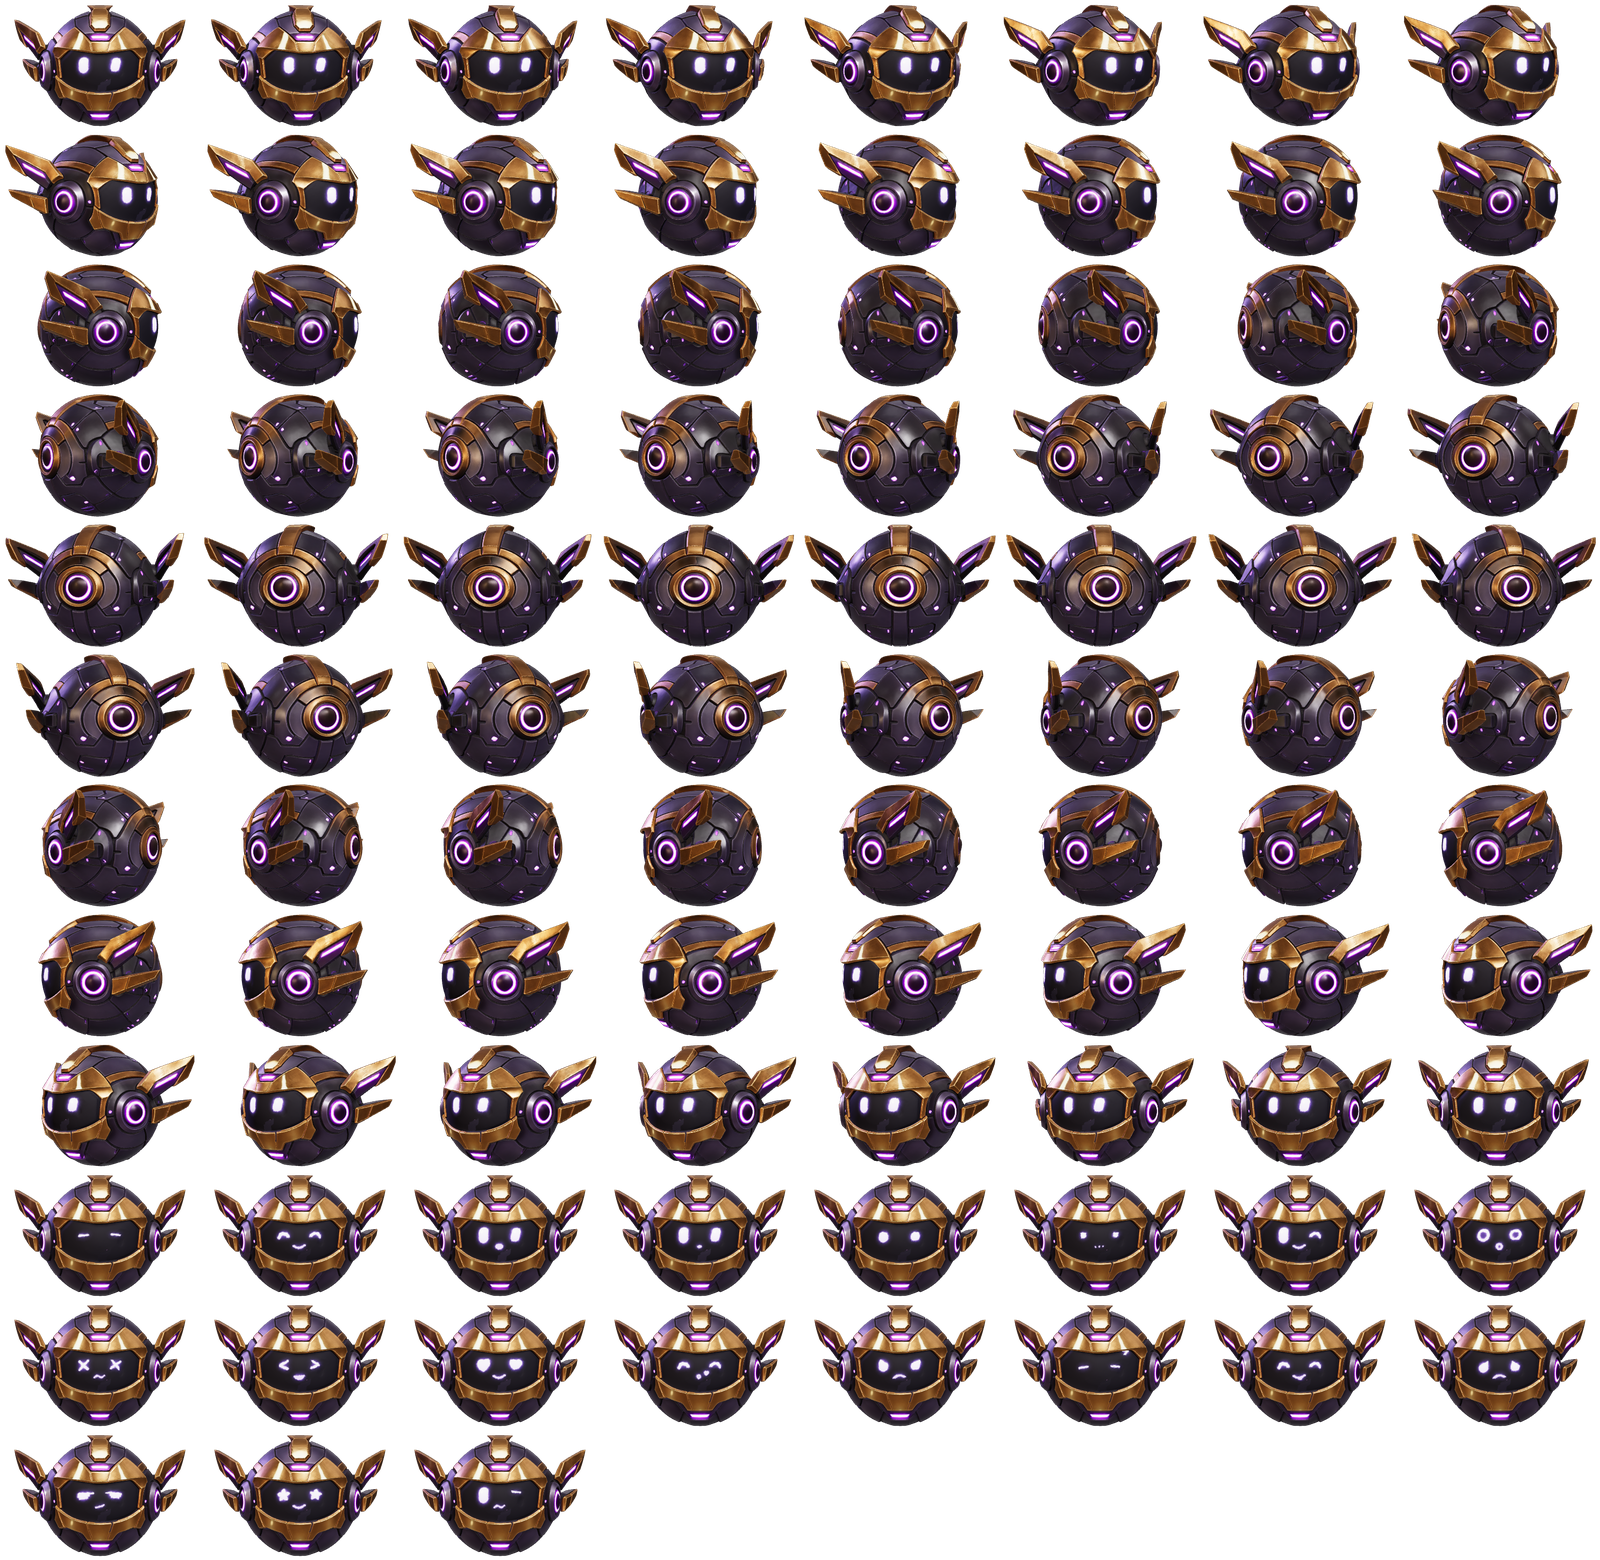
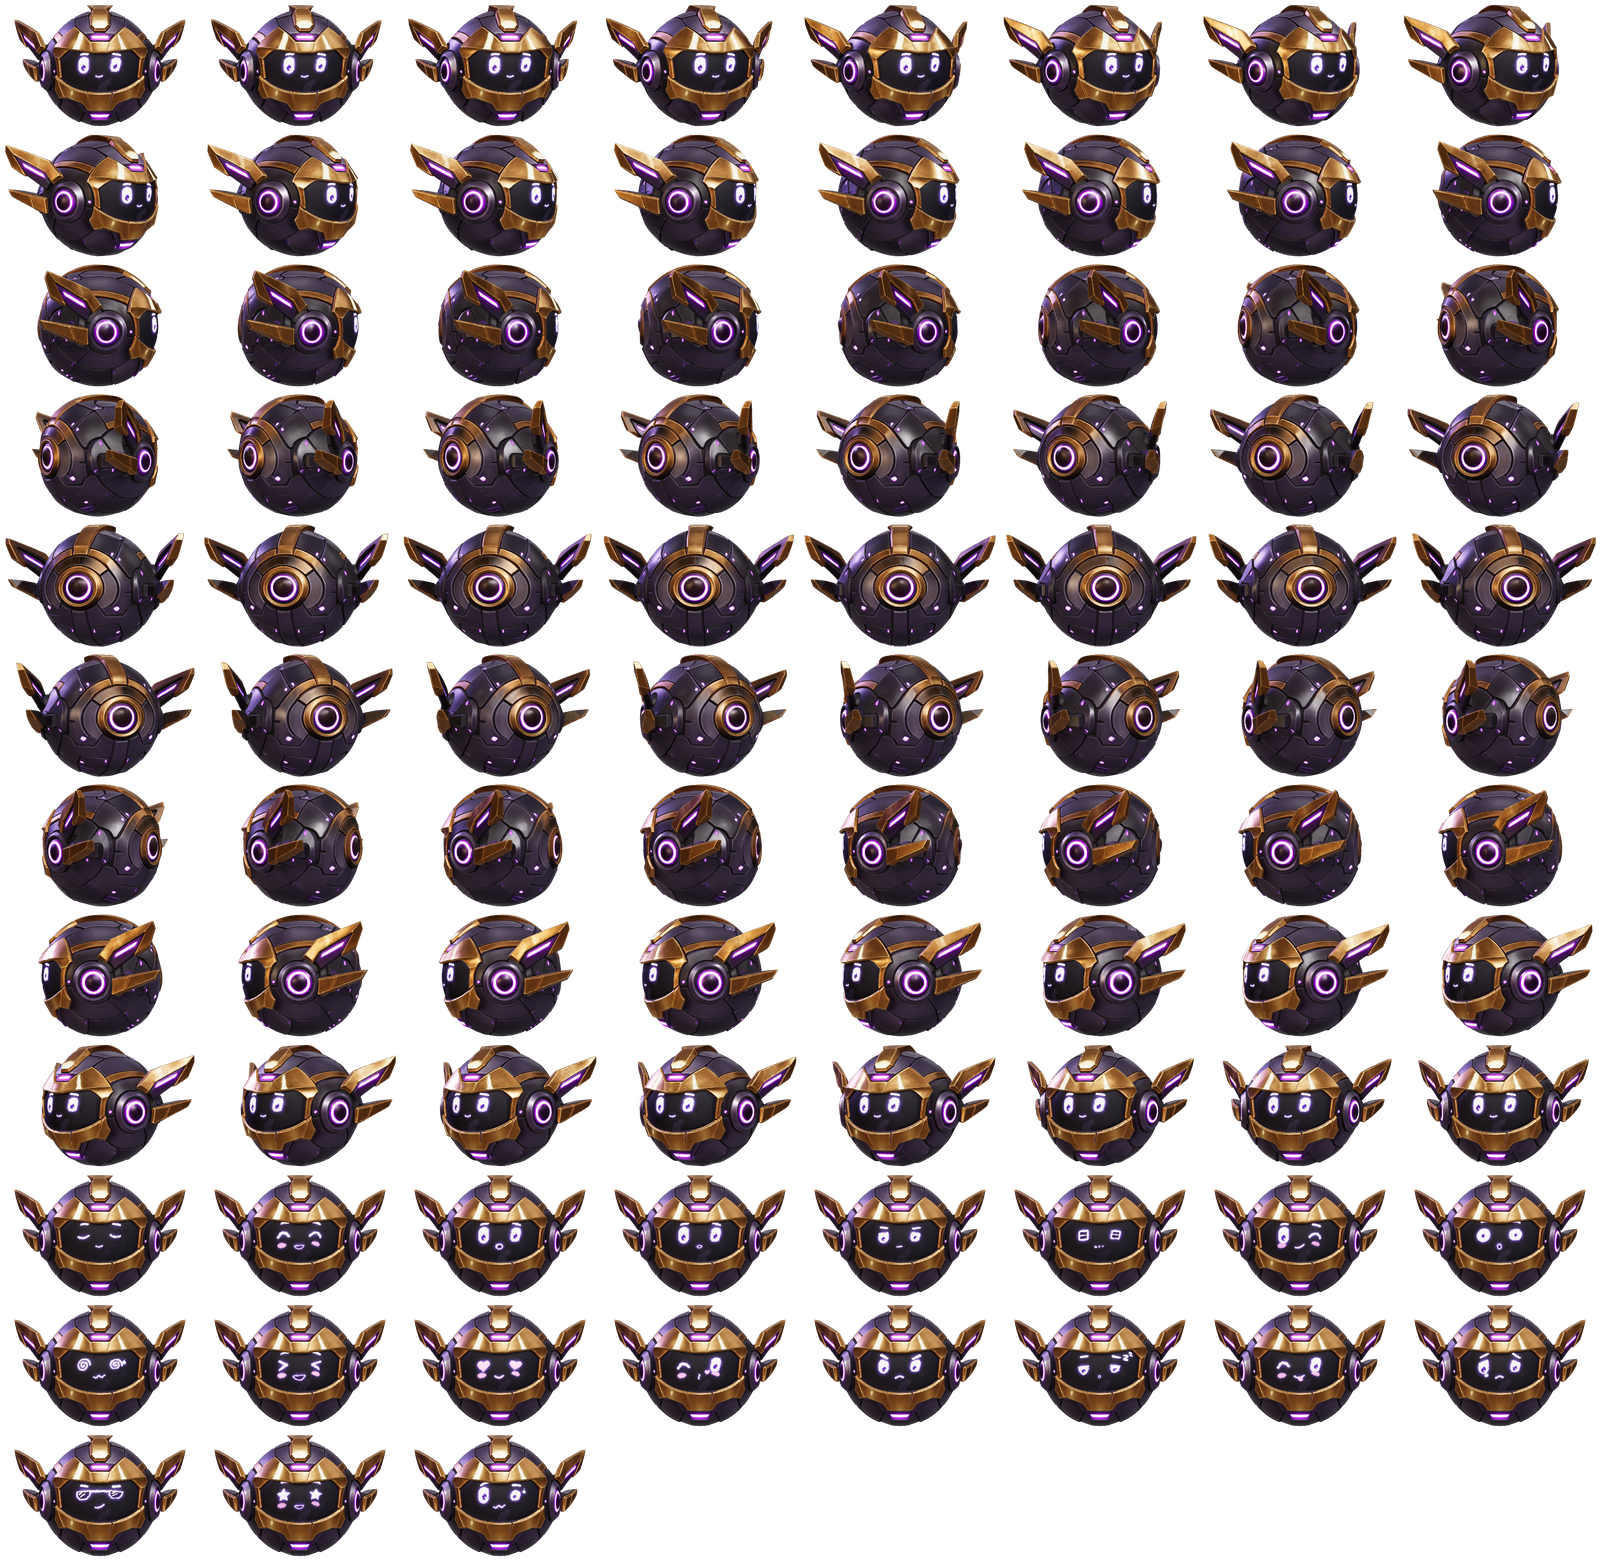
Figur: detaillierte, ausdrucksstarke Holo-Gesichter
Iris, Pupille, Glanzlichter, Augenbrauen, Wangen, Tränen, Herzen und
ausdrucksstärkere Münder für alle 20 Ausdrücke (faces_expr.py, neuer
Standard in bake.py).

Claude-Session: https://claude.ai/code/session_01VjzNBoQPioG3zk3xNWyA7y

diff --git a/scripts/figure-3d/faces_expr.py b/scripts/figure-3d/faces_expr.py
@@ -1,0 +1,267 @@
+# Ausdrucksstarke Holo-Gesichter: Augen mit Iris, Pupille und Glanzlichtern,
+# Augenbrauen, Wangen, Tränen und ausgeformte Münder. Gleiche Leinwand und
+# gleiche Augen-/Mundmitte wie faces.py, damit bake.py sie unverändert einsetzt.
+import os, sys, math
+from PIL import Image, ImageDraw, ImageFilter, ImageChops
+import faces as F
+
+W, H = F.W, F.H
+S = 4                      # Überabtastung
+LX, RX, EY, MY = W / 2 - F.EX, W / 2 + F.EX, F.EY, F.MY
+COL = dict(top=(252, 248, 255), bottom=(170, 132, 255), glow=(139, 92, 246), halo=(200, 175, 255),
+           iris=(214, 196, 255), pupil=(46, 16, 96), pink=(255, 120, 200), dark=(26, 10, 46), tear=(150, 210, 255))
+LAYERS = ('light', 'iris', 'pink', 'dark', 'pupil', 'white', 'tear')
+
+class Canvas:
+    def __init__(self):
+        self.m = {k: Image.new('L', (W * S, H * S), 0) for k in LAYERS}
+        self.d = {k: ImageDraw.Draw(v) for k, v in self.m.items()}
+    def sc(self, pts): return [(x * S, y * S) for x, y in pts]
+    def box(self, x0, y0, x1, y1): return [x0 * S, y0 * S, x1 * S, y1 * S]
+    def ellipse(self, layer, cx, cy, rx, ry, fill=255): self.d[layer].ellipse(self.box(cx - rx, cy - ry, cx + rx, cy + ry), fill=fill)
+    def capsule(self, layer, cx, cy, rx, ry, fill=255): self.d[layer].rounded_rectangle(self.box(cx - rx, cy - ry, cx + rx, cy + ry), radius=rx * S, fill=fill)
+    def poly(self, layer, pts, fill=255): self.d[layer].polygon(self.sc(pts), fill=fill)
+    def line(self, layer, pts, width, fill=255):
+        self.d[layer].line(self.sc(pts), fill=fill, width=int(width * S), joint='curve')
+        r = width / 2
+        for x, y in (pts[0], pts[-1]): self.ellipse(layer, x, y, r, r, fill)
+    def curve(self, layer, fn, t0, t1, width, n=40):  # Linie entlang fn(t) -> (x, y)
+        self.line(layer, [fn(t0 + (t1 - t0) * i / n) for i in range(n + 1)], width)
+    def cut(self, pts, layers=('light', 'iris', 'pupil', 'white')):  # Lid: Bereich aus den Augen löschen
+        for k in layers: self.d[k].polygon(self.sc(pts), fill=0)
+
+def bez(p0, p1, p2):
+    return lambda t: ((1 - t) ** 2 * p0[0] + 2 * (1 - t) * t * p1[0] + t * t * p2[0], (1 - t) ** 2 * p0[1] + 2 * (1 - t) * t * p1[1] + t * t * p2[1])
+
+# ---------- Augen ----------
+def eye_open(c, cx, cy, rx=30, ry=50, look=(0, 0), pupil=1.0, iris=True):
+    c.capsule('light', cx, cy, rx, ry)
+    px, py = cx + look[0], cy + 8 + look[1]
+    if iris: c.ellipse('iris', px, py + 4, rx * 0.78, ry * 0.62)
+    c.ellipse('pupil', px, py + 6, rx * 0.5 * pupil, ry * 0.42 * pupil)
+    c.ellipse('white', px - rx * 0.32, py - ry * 0.28, rx * 0.26, ry * 0.2)
+    c.ellipse('white', px + rx * 0.22, py + ry * 0.3, rx * 0.11, rx * 0.11)
+
+def eye_round(c, cx, cy, r=40, pupil=0.45):
+    c.ellipse('light', cx, cy, r, r)
+    c.ellipse('iris', cx, cy + 2, r * 0.8, r * 0.8)
+    c.ellipse('pupil', cx, cy + 3, r * pupil, r * pupil)
+    c.ellipse('white', cx - r * 0.38, cy - r * 0.38, r * 0.2, r * 0.2)
+    c.ellipse('white', cx + r * 0.25, cy + r * 0.3, r * 0.09, r * 0.09)
+
+def eye_happy(c, cx, cy, w=34, lift=20, width=12):   # ^ geschlossen, lächelnd
+    c.curve('light', bez((cx - w, cy + 10), (cx, cy - lift - 22), (cx + w, cy + 10)), 0, 1, width)
+
+def eye_closed(c, cx, cy, w=32, sag=10, width=9):     # ‿ entspannt geschlossen
+    c.curve('light', bez((cx - w, cy), (cx, cy + sag * 2), (cx + w, cy)), 0, 1, width)
+
+def eye_squeeze(c, cx, cy, side):                      # > <
+    s = -side
+    c.line('light', [(cx - 26 * s, cy - 26), (cx + 22 * s, cy), (cx - 26 * s, cy + 26)], 12)
+
+def eye_heart(c, cx, cy, s=40):
+    pts = []
+    for i in range(80):
+        t = 2 * math.pi * i / 80
+        x = 16 * math.sin(t) ** 3; y = 13 * math.cos(t) - 5 * math.cos(2 * t) - 2 * math.cos(3 * t) - math.cos(4 * t)
+        pts.append((cx + x * s / 17, cy - y * s / 17 + 2))
+    c.poly('pink', pts); c.poly('light', [(x, y) for x, y in pts], fill=110)
+    c.ellipse('white', cx - s * 0.4, cy - s * 0.35, s * 0.16, s * 0.12)
+
+def eye_star(c, cx, cy, r=42):
+    pts = []
+    for i in range(10):
+        a = -math.pi / 2 + i * math.pi / 5; rr = r if i % 2 == 0 else r * 0.45
+        pts.append((cx + rr * math.cos(a), cy + rr * math.sin(a)))
+    c.poly('light', pts); c.ellipse('iris', cx, cy + 3, r * 0.3, r * 0.3)
+    c.ellipse('white', cx - r * 0.18, cy - r * 0.3, r * 0.1, r * 0.1)
+
+def eye_spiral(c, cx, cy, r=38):
+    c.curve('light', lambda t: (cx + (4 + r * t) * math.cos(t * 4 * math.pi), cy + (4 + r * t) * math.sin(t * 4 * math.pi)), 0, 1, 7, n=120)
+
+def eye_scan(c, cx, cy):                                # Arbeiten: eckiges Display mit Scanbalken
+    c.d['light'].rounded_rectangle(c.box(cx - 30, cy - 30, cx + 30, cy + 30), radius=10 * S, fill=255)
+    c.d['dark'].rounded_rectangle(c.box(cx - 22, cy - 22, cx + 22, cy + 22), radius=6 * S, fill=255)
+    c.d['iris'].rectangle(c.box(cx - 20, cy - 4, cx + 20, cy + 4), fill=255)
+    c.d['white'].rectangle(c.box(cx - 20, cy - 2, cx + 20, cy + 2), fill=200)
+
+def shades(c):                                          # Sonnenbrille über beide Augen
+    for cx in (LX, RX):
+        pts = [(cx - 44, EY - 26), (cx + 44, EY - 26), (cx + 40, EY + 6), (cx + 20, EY + 26), (cx - 22, EY + 26), (cx - 42, EY + 4)]
+        c.poly('light', pts); c.poly('dark', [(x * 0.86 + cx * 0.14, y * 0.8 + EY * 0.2) for x, y in pts])
+        c.line('white', [(cx - 26, EY - 6), (cx - 8, EY - 16)], 5); c.line('white', [(cx - 18, EY + 8), (cx + 8, EY - 8)], 4)
+    c.line('light', [(LX + 42, EY - 20), (RX - 42, EY - 20)], 9)
+
+# ---------- Augenbrauen ----------
+def brows(c, inner, outer, y=EY - 72, width=10, length=40, curve=0.0):
+    # inner/outer: Höhenversatz am inneren bzw. äußeren Ende (negativ = höher)
+    for side, cx in ((-1, LX), (1, RX)):
+        xi, xo = cx - side * length / 2, cx + side * length / 2
+        mid = ((xi + xo) / 2, y + (inner + outer) / 2 - curve)
+        c.curve('light', bez((xo, y + outer), mid, (xi, y + inner)), 0, 1, width)
+
+def brow_one(c, side, inner, outer, y=EY - 72):
+    cx = LX if side < 0 else RX; xi, xo = cx - side * 20, cx + side * 20
+    c.curve('light', bez((xo, y + outer), ((xi + xo) / 2, y + (inner + outer) / 2 - 6), (xi, y + inner)), 0, 1, 10)
+
+# ---------- Extras ----------
+def cheeks(c, alpha=150):
+    for cx in (LX - 14, RX + 14): c.ellipse('pink', cx, EY + 62, 30, 13, fill=alpha)
+
+def tear(c, cx, cy, s=1.0):
+    pts = [(cx + 11 * s * math.sin(t), cy + 14 * s * (1 - math.cos(t)) * (0.75 if math.cos(t) < 0 else 1) - 6 * s) for t in [i * 2 * math.pi / 40 for i in range(40)]]
+    pts = [(cx, cy - 22 * s)] + [(x, y) for x, y in pts if y >= cy - 6 * s]
+    c.poly('tear', pts); c.ellipse('white', cx - 3 * s, cy + 2 * s, 3 * s, 4 * s)
+
+def sweat(c, x, y): tear(c, x, y, 0.9)
+
+def zz(c):
+    for (x, y, s) in ((W - 120, 46, 1.0), (W - 80, 22, 0.7)):
+        c.line('light', [(x, y), (x + 26 * s, y), (x, y + 24 * s), (x + 26 * s, y + 24 * s)], 6 * s)
+
+def small_heart(c, x, y, s=14):
+    pts = []
+    for i in range(48):
+        t = 2 * math.pi * i / 48
+        pts.append((x + 16 * math.sin(t) ** 3 * s / 17, y - (13 * math.cos(t) - 5 * math.cos(2 * t) - 2 * math.cos(3 * t) - math.cos(4 * t)) * s / 17))
+    c.poly('pink', pts)
+
+# ---------- Münder ----------
+def m_smile(c, w=34, d=16, width=9):
+    c.curve('light', bez((W / 2 - w, MY - 4), (W / 2, MY + d * 2 - 4), (W / 2 + w, MY - 4)), 0, 1, width)
+
+def m_frown(c, w=30, d=12, width=9):
+    c.curve('light', bez((W / 2 - w, MY + 8), (W / 2, MY - d * 2 + 8), (W / 2 + w, MY + 8)), 0, 1, width)
+
+def m_open(c, w=34, h=26, tongue=True, teeth=False):   # D-förmig offener Mund
+    top = MY - 8; pts = [(W / 2 - w, top)] + [(W / 2 + w * math.cos(math.pi * i / 30), top + h * math.sin(math.pi * i / 30)) for i in range(31)] + [(W / 2 + w, top)]
+    pts = [(W / 2 + w * math.cos(math.pi * i / 30), top + h * math.sin(math.pi * i / 30)) for i in range(31)]
+    c.poly('light', [(x, y) for x, y in pts]); inner = [(W / 2 + (x - W / 2) * 0.82, top + 3 + (y - top) * 0.78) for x, y in pts]
+    c.poly('dark', inner)
+    if tongue: c.ellipse('pink', W / 2 + 4, top + h * 0.66, w * 0.42, h * 0.26)
+    if teeth: c.d['light'].rectangle(c.box(W / 2 - w * 0.7, top + 2, W / 2 + w * 0.7, top + 8), fill=255)
+
+def m_oval(c, rx, ry, tongue=False):
+    c.ellipse('light', W / 2, MY, rx, ry); c.ellipse('dark', W / 2, MY + 1, rx * 0.72, ry * 0.68)
+    if tongue: c.ellipse('pink', W / 2 + 2, MY + ry * 0.35, rx * 0.45, ry * 0.3)
+
+def m_wave(c):
+    c.curve('light', lambda t: (W / 2 - 36 + 72 * t, MY + 7 * math.sin(t * 3.4 * math.pi)), 0, 1, 7, n=60)
+
+def m_smirk(c):
+    c.curve('light', bez((W / 2 - 26, MY + 4), (W / 2 + 6, MY + 12), (W / 2 + 30, MY - 10)), 0, 1, 8)
+
+def m_kiss(c):
+    c.curve('light', lambda t: (W / 2 + 6 * math.sin(t * 2 * math.pi) - 2, MY - 14 + 28 * t), 0, 1, 7)
+    small_heart(c, W / 2 + 52, MY - 26, 16)
+
+def m_dots(c):
+    for i, a in enumerate((255, 190, 120)): c.ellipse('light', W / 2 - 24 + 24 * i, MY, 6, 6, fill=a)
+
+# ---------- Ausdrücke ----------
+def build(name):
+    c = Canvas()
+    if name == 'idle':
+        for cx in (LX, RX): eye_open(c, cx, EY)
+        brows(c, 0, 0, curve=4); m_smile(c, w=20, d=6, width=7)
+    elif name == 'blink':
+        for cx in (LX, RX): eye_closed(c, cx, EY + 6)
+        brows(c, 0, 0, curve=4); m_smile(c, w=20, d=6, width=7)
+    elif name == 'happy':
+        for cx in (LX, RX): eye_happy(c, cx, EY)
+        brows(c, -6, 0, y=EY - 78, curve=6); cheeks(c); m_open(c, w=32, h=24)
+    elif name in ('talkA', 'talkB'):
+        for cx in (LX, RX): eye_open(c, cx, EY, look=(0, -2))
+        brows(c, -4, 0, curve=4)
+        if name == 'talkA': m_oval(c, 24, 18, tongue=True)
+        else: m_oval(c, 18, 9)
+    elif name == 'focus':
+        for side, cx in ((-1, LX), (1, RX)):
+            eye_open(c, cx, EY + 8, ry=40, pupil=0.85)
+            c.cut([(cx - 40, EY - 60), (cx + 40, EY - 60), (cx + 40, EY - 14 + side * 4), (cx - 40, EY - 14 - side * 4)])
+        brows(c, 6, -2, y=EY - 50); c.line('light', [(W / 2 - 16, MY), (W / 2 + 16, MY)], 7)
+    elif name == 'busy':
+        for cx in (LX, RX): eye_scan(c, cx, EY)
+        m_dots(c)
+    elif name == 'wink':
+        eye_open(c, LX, EY); eye_happy(c, RX, EY + 6, lift=14)
+        brow_one(c, -1, 0, 0); brow_one(c, 1, 4, 8); cheeks(c, 120); m_smirk(c)
+    elif name == 'surprised':
+        for cx in (LX, RX): eye_round(c, cx, EY, r=40, pupil=0.3)
+        brows(c, -10, -6, y=EY - 82, curve=8); m_oval(c, 15, 19)
+    elif name == 'dizzy':
+        for cx in (LX, RX): eye_spiral(c, cx, EY)
+        m_wave(c); sweat(c, RX + 52, EY - 30)
+    elif name == 'laugh':
+        for side, cx in ((-1, LX), (1, RX)): eye_squeeze(c, cx, EY, side)
+        brows(c, -8, 0, y=EY - 76, curve=6); cheeks(c, 170); m_open(c, w=40, h=34, teeth=True)
+    elif name == 'love':
+        for cx in (LX, RX): eye_heart(c, cx, EY)
+        cheeks(c, 170); m_smile(c, w=26, d=12)
+    elif name == 'kiss':
+        eye_happy(c, LX, EY + 4, lift=14); eye_open(c, RX, EY)
+        cheeks(c, 170); m_kiss(c)
+    elif name == 'angry':
+        for side, cx in ((-1, LX), (1, RX)):
+            eye_open(c, cx, EY + 6, ry=44, look=(-side * 4, 4), pupil=0.9)
+            c.cut([(cx - 44, EY - 60), (cx + 44, EY - 60), (cx + 44, EY - 30 - side * 20), (cx - 44, EY - 30 + side * 20)])
+        brows(c, 12, -14, y=EY - 54, width=12); m_frown(c, w=26, d=10)
+    elif name == 'sleepy':
+        for side, cx in ((-1, LX), (1, RX)):
+            eye_open(c, cx, EY + 12, ry=40, look=(0, 10), pupil=0.9)
+            c.cut([(cx - 44, EY - 60), (cx + 44, EY - 60), (cx + 44, EY + 8), (cx - 44, EY + 8)])
+            c.line('light', [(cx - 30, EY + 8), (cx + 30, EY + 8)], 6)
+        brows(c, 2, 6, y=EY - 60); m_oval(c, 10, 8); zz(c)
+    elif name == 'tongue':
+        eye_happy(c, LX, EY); eye_open(c, RX, EY, look=(4, 0))
+        cheeks(c, 140); m_smile(c, w=30, d=12)
+        c.ellipse('pink', W / 2 + 8, MY + 18, 13, 15); c.line('dark', [(W / 2 + 8, MY + 10), (W / 2 + 8, MY + 24)], 2)
+    elif name == 'sad':
+        for side, cx in ((-1, LX), (1, RX)):
+            eye_open(c, cx, EY + 6, ry=46, look=(0, 6), pupil=1.05)
+            c.cut([(cx - 44, EY - 60), (cx + 44, EY - 60), (cx + 44, EY - 24 + side * 18), (cx - 44, EY - 24 - side * 18)])
+        brows(c, -14, 8, y=EY - 60); m_frown(c, w=24, d=10); tear(c, LX + 16, EY + 62)
+    elif name == 'cool':
+        shades(c); brows(c, 4, -4, y=EY - 60); m_smirk(c)
+    elif name == 'star':
+        for cx in (LX, RX): eye_star(c, cx, EY)
+        brows(c, -8, -2, y=EY - 82, curve=6); cheeks(c, 120); m_open(c, w=30, h=22)
+    elif name == 'confused':
+        eye_open(c, LX, EY, look=(6, -6)); eye_open(c, RX, EY + 6, ry=36, look=(-4, -6), pupil=0.8)
+        brow_one(c, -1, -14, 4); brow_one(c, 1, 8, 4); m_wave(c); sweat(c, RX + 50, EY - 34)
+    return c
+
+def compose(c):
+    m = {k: v.resize((W, H), Image.LANCZOS) for k, v in c.m.items()}
+    out = Image.new('RGBA', (W, H), (0, 0, 0, 0))
+    def lay(msk, col, alpha=1.0):
+        layer = Image.new('RGBA', (W, H), col + (0,)); layer.putalpha(msk.point(lambda v: int(v * alpha))); out.alpha_composite(layer)
+    lit = ImageChops.lighter(ImageChops.lighter(m['light'], m['pink']), m['tear'])
+    lay(lit.filter(ImageFilter.GaussianBlur(14)), COL['glow'], 0.85)
+    lay(lit.filter(ImageFilter.GaussianBlur(4)), COL['halo'], 0.55)
+    grad = Image.new('RGBA', (W, H)); gp = grad.load()
+    for y in range(H):
+        t = max(0.0, min(1.0, (y - (EY - 60)) / 130))
+        col = tuple(int(COL['top'][i] + (COL['bottom'][i] - COL['top'][i]) * t) for i in range(3))
+        for x in range(W): gp[x, y] = col + (255,)
+    scan = Image.new('L', (W, H), 255); sp = scan.load()
+    for y in range(0, H, 3):
+        for x in range(W): sp[x, y] = 205
+    grad.putalpha(ImageChops.multiply(m['light'], scan)); out.alpha_composite(grad)
+    lay(m['iris'], COL['iris'], 0.9)
+    lay(m['pink'], COL['pink'], 0.85)
+    lay(m['tear'], COL['tear'], 0.95)
+    lay(m['dark'], COL['dark'], 1.0)
+    lay(m['pupil'], COL['pupil'], 1.0)
+    edge = ImageChops.subtract(m['light'], m['light'].filter(ImageFilter.MinFilter(3)))
+    lay(edge, (255, 255, 255), 0.3)
+    lay(m['white'], (255, 255, 255), 0.95)
+    return out
+
+def face(name):
+    return compose(build(name))
+
+if __name__ == '__main__':
+    os.makedirs(sys.argv[1], exist_ok=True)
+    for n in F.FACES:
+        f = face(n); bg = Image.new('RGBA', (W, H), (14, 8, 22, 255)); bg.alpha_composite(f); bg.save(os.path.join(sys.argv[1], n + '.png'))

diff --git a/scripts/figure-3d/bake.py b/scripts/figure-3d/bake.py
@@ -4,8 +4,11 @@ sys.path.insert(0, os.path.dirname(os.path.abspath(__file__)))
 SRC=os.environ['TECMON_3D']; OUT=os.environ['TECMON_3D_WORK']
 from PIL import Image, ImageFilter, ImageChops
 import faces
-STYLE=os.environ.get('TECMON_FACES','holo')
-if STYLE in ('holo','gold'):
+STYLE=os.environ.get('TECMON_FACES','expr')
+if STYLE=='expr':
+    import faces_expr
+    def face_image(name): return faces_expr.face(name)
+elif STYLE in ('holo','gold'):
     import faces_holo
     def face_image(name): return faces_holo.face(name, STYLE)
 else:

diff --git a/scripts/figure-3d/README.md b/scripts/figure-3d/README.md
@@ -27,8 +27,12 @@ python3 sheet.py "$TECMON_3D_WORK/frames" ../../tools/cs2-companion/public/deskt
 
 - `faces.py`: Formen der Gesichter (Augen, Mund, Ausdrücke) und der alte
   LED-Punktstil.
-- `faces_holo.py`: Standardstil seit 0.22.1, glatte Holo-Augen mit Verlauf,
-  Glanzpunkt und Scanlines. `TECMON_FACES=holo|gold|led` wählt den Stil für
+- `faces_expr.py`: Standardstil seit 0.22.1, gezeichnete Holo-Gesichter mit
+  Iris, Pupille, Glanzlichtern, Augenbrauen, Wangen, Tränen, Herzen und
+  ausdrucksstarken Mündern. `python3 faces_expr.py <ordner>` speichert sie zur
+  Ansicht.
+- `faces_holo.py`: schlichtere Holo-Augen mit Verlauf, Glanzpunkt und
+  Scanlines. `TECMON_FACES=expr|holo|gold|led` wählt den Stil für
   `bake.py`; `python3 faces_holo.py <ordner> [holo|gold]` speichert die
   Gesichter zur Ansicht.
   `python3 faces.py <ordner>` speichert sie zur Ansicht als PNG.

diff --git a/README.md b/README.md
@@ -68,10 +68,12 @@ Neueste Version zuerst.
 
 ### Neu in 0.22.1: Neue Augen für TecMon
 
-- **Holo-Augen statt LED-Punkten:** Glatte, leuchtende lila Augen mit
-  Glanzpunkt und feinen Holo-Linien. Alle 20 Gesichter (Fröhlich, Zwinkern,
-  Verliebt, Sauer, Cool und so weiter) sind neu gezeichnet und auf das Visier
-  der 3D-Figur gerendert.
+- **Ausdrucksstarke Holo-Gesichter statt LED-Punkten:** Leuchtende lila
+  Augen mit Iris, Pupille und Glanzlichtern, dazu Augenbrauen, rosa Wangen und
+  deutlich ausdrucksstärkere Münder. Alle 20 Gesichter (Fröhlich, Zwinkern,
+  Verliebt mit Herzaugen, Sauer mit Zornesbrauen, Traurig mit Träne, Schläfrig
+  mit Zz, Cool mit Sonnenbrille, Sternenaugen und so weiter) sind neu
+  gezeichnet und auf das Visier der 3D-Figur gerendert.
 
 ### Neu in 0.22.0: Dota-2-Paket
 
